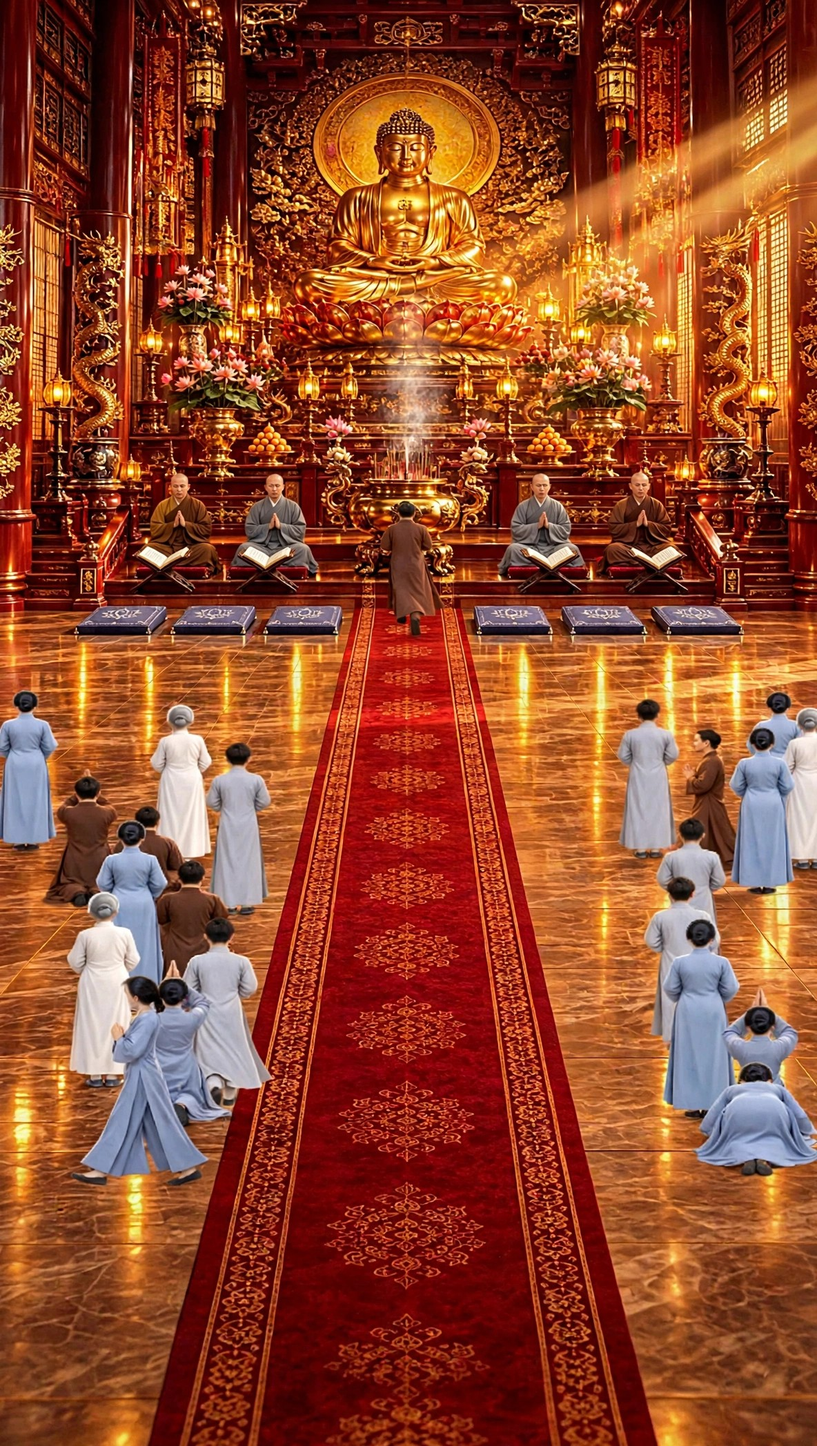
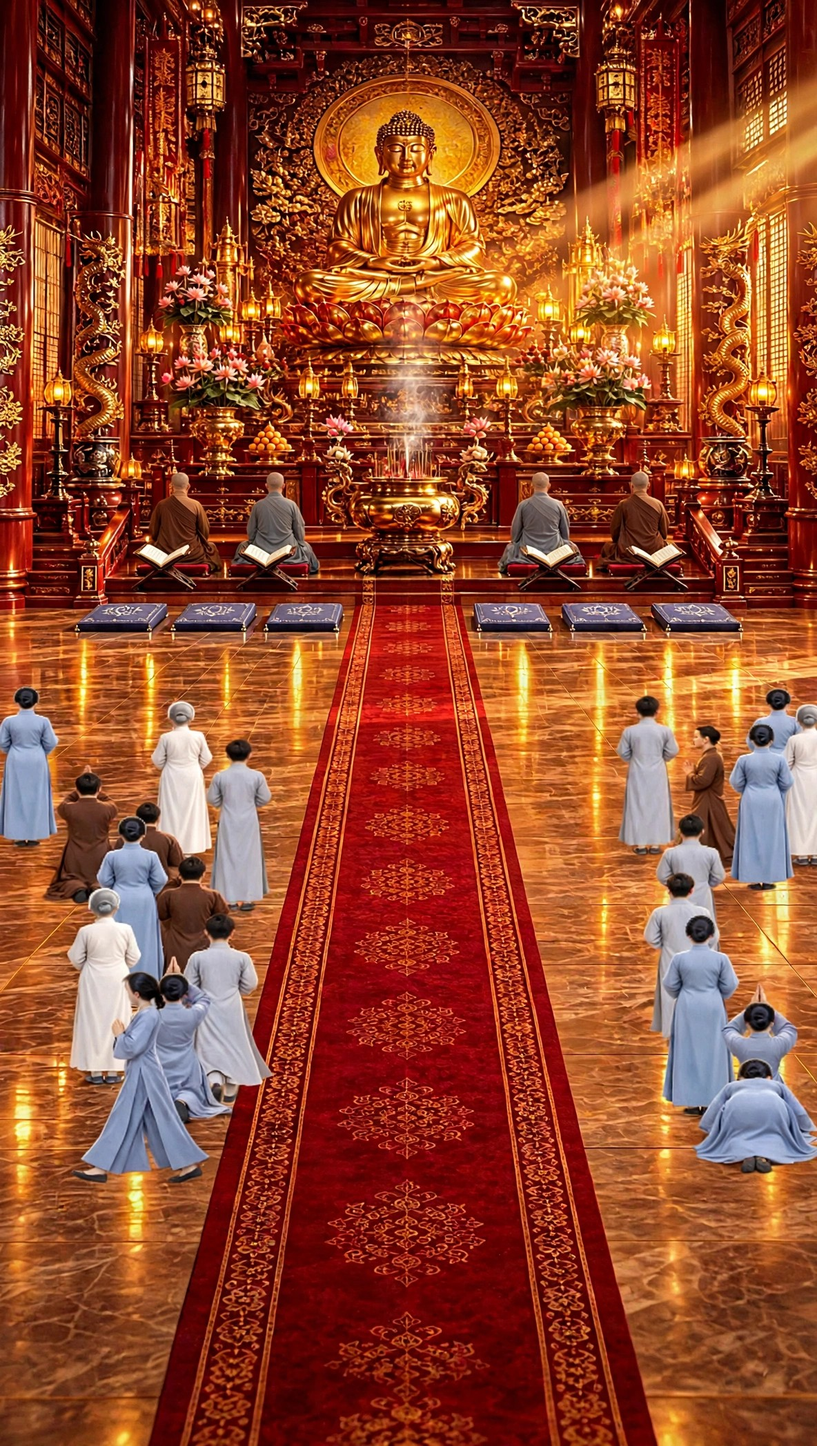
Add files via upload

diff --git a/index.html b/index.html
@@ -43,6 +43,18 @@ button.small{padding:7px 12px;font-size:13px}
 .char.meditating .halo{display:block}
 .bgfig{position:absolute;transform:translate(-50%,-100%);z-index:3;opacity:.85;pointer-events:none}
 .bgfig svg{width:34px;height:48px;display:block}
+.bgmove{position:absolute;transform:translate(-50%,-100%);transform-origin:50% 100%;z-index:4;opacity:.92;pointer-events:none}
+.bgmove svg{width:34px;height:48px;display:block}
+.bgmove.bow{animation:bgBow 6s ease-in-out infinite}
+.bgmove.sway{animation:bgSway 5s ease-in-out infinite}
+.bgmove.walk{animation:bgWalk 9s ease-in-out infinite}
+.bgmove.tray{animation:bgTray 46s ease-in-out infinite}
+.bgmove.tray svg{animation:bgBob 2.4s ease-in-out infinite}
+@keyframes bgBow{0%,58%,100%{transform:translate(-50%,-100%) scaleY(1)}28%{transform:translate(-50%,calc(-100% + 4px)) scaleY(.85)}}
+@keyframes bgSway{0%,100%{transform:translate(-50%,-100%) rotate(-1.6deg)}50%{transform:translate(-50%,-100%) rotate(1.6deg)}}
+@keyframes bgWalk{0%,100%{transform:translate(calc(-50% - 22px),-100%)}50%{transform:translate(calc(-50% + 22px),calc(-100% - 2px))}}
+@keyframes bgBob{0%,100%{transform:translateY(0)}50%{transform:translateY(-2px)}}
+@keyframes bgTray{0%{left:9%}50%{left:87%}100%{left:9%}}
 .char.bowing .fig{transform:rotate(10deg) scaleY(.92)}
 .speech{position:absolute;left:50%;bottom:calc(100% + 2px);transform:translateX(-50%);background:#fff;color:#333;font-size:11px;line-height:1.3;padding:4px 8px;border-radius:10px;white-space:nowrap;box-shadow:0 2px 6px rgba(0,0,0,.35);z-index:8}
 .speech::after{content:"";position:absolute;left:50%;bottom:-4px;transform:translateX(-50%);border:5px solid transparent;border-top-color:#fff;border-bottom:0}
@@ -202,6 +214,7 @@ footer{text-align:center;color:#7a6a52;font-size:13px;padding:26px 10px;line-hei
 <div class="monk" id="monkEl"><div class="mfig">🧘<span class="arm">🥢</span></div><div class="mo">🪵</div><small>Thầy gõ mõ</small></div>
 <div class="monk monk2"><div class="mfig">🧘</div><small>Thầy tọa thiền</small></div>
 <div class="merit" id="meritBoard"><b>BIA CÔNG ĐỨC</b><div id="meritRows">Chưa có công đức — tặng quà trên live TikTok để ghi danh.</div></div>
+<div id="bgMovers" aria-hidden="true"></div>
 <div id="chars"></div>
 <div class="breath" id="breathBubble">Hít vào…</div>
 <div class="giftScroll" id="giftScroll"></div>
@@ -236,7 +249,7 @@ footer{text-align:center;color:#7a6a52;font-size:13px;padding:26px 10px;line-hei
 <p class="muted" id="musicNote" style="margin-top:8px"></p>
 <div class="log" id="activityLog">Chào mừng bạn đến chùa 🙏 Hãy đặt tên ở cổng vào rồi bấm “Vào Chùa Với Tên Này”.</div>
 <div class="guide" style="margin-top:12px">
-<b>Đi dạo:</b> chạm / nhấp vào lối đi giữa điện, hoặc dùng phím mũi tên. <b>Phật tử:</b> khi vào chùa, hình Phật tử nam/nữ của bạn tự hiện và xếp vào chỗ trống hai bên thảm đỏ, mặt hướng về bàn thờ; chạm vào nền để đi lại. <b>Dâng hương:</b> bước tới trước lư hương, nâng hương và khói bay lên bàn thờ. <b>Vái lạy:</b> quỳ xuống, cúi mình lạy ba lạy trước Phật. <b>Tọa thiền:</b> ngồi yên tại chỗ, tỏa hào quang vàng. <b>Thỉnh chuông:</b> tiếng chuông vang cho mọi người đang ở chùa. <b>Gõ mõ:</b> chạm nút Gõ Mõ, thầy sẽ gõ mõ cùng bạn.
+<b>Đi dạo:</b> chạm / nhấp vào lối đi giữa điện, hoặc dùng phím mũi tên. <b>Phật tử:</b> khi vào chùa, hình Phật tử nam/nữ của bạn tự hiện và xếp vào chỗ trống hai bên thảm đỏ, mặt hướng về bàn thờ; chạm vào nền để đi lại. Các Phật tử trong điện luôn chuyển động: người khấn vái, người đi lại, người đứng chắp tay lễ, người bưng mâm lễ. <b>Dâng hương:</b> bước tới trước lư hương, nâng hương và khói bay lên bàn thờ. <b>Vái lạy:</b> quỳ xuống, cúi mình lạy ba lạy trước Phật. <b>Tọa thiền:</b> ngồi yên tại chỗ, tỏa hào quang vàng. <b>Thỉnh chuông:</b> tiếng chuông vang cho mọi người đang ở chùa. <b>Gõ mõ:</b> chạm nút Gõ Mõ, thầy sẽ gõ mõ cùng bạn.
 </div>
 </section>
 
@@ -395,36 +408,72 @@ function autoPlaceMe() {
   emitMove("đang lễ Phật");
 }
 function figureSVG(female, seated) {
-  const robe = female ? "#b07fa8" : "#7d94a8";
-  const trim = female ? "#8e5f86" : "#5f768a";
+  const robe = female ? "#a89bb8" : "#7d94a8";
+  const trim = female ? "#8a7d9e" : "#5f768a";
   const skin = "#f2c89b";
   const hair = "#2b2b2b";
+  const folds = '<path d="M26,40 Q24,58 26,76 M38,40 Q40,58 38,76" stroke="' + trim + '" stroke-width="1" fill="none" opacity="0.3"/>' +
+    '<path d="M32,36 L32,78" stroke="' + trim + '" stroke-width="1" opacity="0.25"/>';
+  const collar = '<path d="M26,32 Q32,29 38,32 L38,37 Q32,34 26,37 Z" fill="' + trim + '"/>';
   const body = seated
-    ? '<path d="M12,78 Q12,58 24,50 L40,50 Q52,58 52,78 Q32,84 12,78 Z" fill="' + robe + '"/>' +
-      '<path d="M22,50 Q32,44 42,50 L42,58 L22,58 Z" fill="' + robe + '"/>' +
-      '<path d="M27,50 L32,57 L37,50" stroke="' + trim + '" stroke-width="2" fill="none" stroke-linecap="round"/>' +
-      '<ellipse cx="32" cy="61" rx="7" ry="3.5" fill="' + skin + '"/>'
-    : '<path d="' + (female ? "M18,38 Q32,32 46,38 L52,78 Q32,84 12,78 Z" : "M20,38 Q32,32 44,38 L48,78 Q32,83 16,78 Z") + '" fill="' + robe + '"/>' +
-      '<path d="M25,36 L32,48 L39,36" stroke="' + trim + '" stroke-width="2" fill="none" stroke-linecap="round"/>' +
-      '<path d="M24,39 L42,74" stroke="#e8c46a" stroke-width="3" opacity="0.75" stroke-linecap="round"/>' +
-      '<path d="M21,43 Q28,53 32,55 Q36,53 43,43" stroke="' + trim + '" stroke-width="6" fill="none" stroke-linecap="round"/>' +
-      '<ellipse cx="32" cy="56" rx="5" ry="4" fill="' + skin + '"/>';
-  const headBase = '<circle cx="32" cy="22" r="11" fill="' + skin + '"/>' +
-    '<circle cx="21" cy="23" r="2.4" fill="' + skin + '"/><circle cx="43" cy="23" r="2.4" fill="' + skin + '"/>';
-  const hairTop = female
-    ? '<path d="M20,24 Q18,8 32,8 Q46,8 44,24 L42,40 Q40,30 38,26 L38,15 Q32,11 26,15 L26,26 Q24,30 22,40 Z" fill="' + hair + '"/>' +
-      '<circle cx="32" cy="6" r="5" fill="' + hair + '"/>' +
-      '<circle cx="32" cy="1" r="2" fill="#e89bb0"/><circle cx="27.5" cy="4" r="2" fill="#e89bb0"/><circle cx="36.5" cy="4" r="2" fill="#e89bb0"/><circle cx="29" cy="9" r="2" fill="#e89bb0"/><circle cx="35" cy="9" r="2" fill="#e89bb0"/><circle cx="32" cy="5" r="1.6" fill="#f5d76e"/>'
-    : '<path d="M20,24 Q19,9 32,9 Q45,9 44,24 Q42,15 32,14 Q22,15 20,24 Z" fill="' + hair + '"/>';
-  const face = '<circle cx="28" cy="21" r="1.3" fill="#3a2a20"/><circle cx="36" cy="21" r="1.3" fill="#3a2a20"/>' +
-    '<path d="M28,27 Q32,30 36,27" stroke="#b0725a" stroke-width="1.4" fill="none" stroke-linecap="round"/>';
+    ? '<path d="M11,79 Q11,58 24,49 L40,49 Q53,58 53,79 Q32,84 11,79 Z" fill="' + robe + '"/>' +
+      '<path d="M24,28 Q32,23 40,28 L43,52 L21,52 Z" fill="' + robe + '"/>' +
+      '<path d="M24,58 Q22,68 24,77 M40,58 Q42,68 40,77" stroke="' + trim + '" stroke-width="1" fill="none" opacity="0.3"/>' + collar
+    : '<path d="' + (female ? "M22,34 Q32,29 42,34 L48,80 Q32,84 16,80 Z" : "M23,34 Q32,29 41,34 L45,80 Q32,84 19,80 Z") + '" fill="' + robe + '"/>' +
+      folds + collar +
+      '<path d="M23,40 Q26,52 31,56 M41,40 Q38,52 33,56" stroke="' + trim + '" stroke-width="5" fill="none" stroke-linecap="round"/>';
+  const headBack = '<circle cx="32" cy="19" r="10" fill="' + skin + '"/>';
+  const hairBack = female
+    ? '<circle cx="32" cy="16" r="10.5" fill="' + hair + '"/>' +
+      '<circle cx="32" cy="30" r="4.5" fill="' + hair + '"/>' +
+      '<circle cx="28" cy="27.5" r="1.7" fill="#e89bb0"/><circle cx="36" cy="27.5" r="1.7" fill="#e89bb0"/><circle cx="32" cy="25.5" r="1.7" fill="#e89bb0"/><circle cx="32" cy="28.5" r="1.4" fill="#f5d76e"/>'
+    : '<circle cx="32" cy="16" r="10.5" fill="' + hair + '"/>';
   return '<svg viewBox="0 0 64 84" xmlns="http://www.w3.org/2000/svg" aria-hidden="true">' +
-    '<ellipse cx="32" cy="80" rx="16" ry="3" fill="rgba(0,0,0,0.25)"/>' + body + headBase + hairTop + face + '</svg>';
+    '<ellipse cx="32" cy="81" rx="15" ry="3" fill="rgba(0,0,0,0.25)"/>' + body + headBack + hairBack + '</svg>';
 }
 function charFigure(u) {
   const female = u.gender === "nu";
   return '<div class="halo"></div><span class="nametag">' + esc((female ? "♀ " : "♂ ") + u.name + " — Phật tử " + (female ? "nữ" : "nam") + (u.action && u.action !== "đang đứng" ? " · " + esc(u.action) : "")) + '</span>' +
     '<div class="fig">' + figureSVG(female, !!u.meditating) + '</div>';
+}
+// Hình Phật tử nhìn từ phía sau (cùng hướng với các Phật tử trong ảnh nền): tóc, lưng áo, không thấy mặt.
+function figureSVGBack(female, withTray) {
+  const svg = figureSVG(female, false);
+  if (!withTray) return svg;
+  const tray = '<ellipse cx="32" cy="54" rx="18" ry="5" fill="#b08d3e"/><ellipse cx="32" cy="52.5" rx="18" ry="5" fill="#d9b45c"/>' +
+    '<circle cx="24" cy="48" r="3" fill="#e07830"/><circle cx="32" cy="46.5" r="3" fill="#c0392b"/><circle cx="40" cy="48" r="3" fill="#7da05a"/>' +
+    '<path d="M28,46 L28,40 M36,46 L36,40" stroke="#8a6a2f" stroke-width="1.6"/>';
+  return svg.replace('</svg>', tray + '</svg>');
+}
+
+// Phật tử chuyển động trong điện: người khấn vái, người đi lại, người đứng chắp tay, người bưng mâm lễ.
+const BG_MOVERS = [
+  { x: 8, y: 56, female: true, act: "bow", dur: 6 },
+  { x: 22, y: 66, female: false, act: "walk", dur: 9 },
+  { x: 7, y: 82, female: false, act: "sway", dur: 5 },
+  { x: 26, y: 88, female: true, act: "bow", dur: 7.5 },
+  { x: 92, y: 56, female: false, act: "sway", dur: 5.5 },
+  { x: 78, y: 66, female: true, act: "walk", dur: 10 },
+  { x: 93, y: 82, female: true, act: "bow", dur: 6.8 },
+  { x: 74, y: 88, female: false, act: "sway", dur: 4.6 },
+];
+function buildBgMovers() {
+  const wrap = $("bgMovers");
+  if (!wrap) return;
+  BG_MOVERS.forEach((f, i) => {
+    const d = document.createElement("div");
+    d.className = "bgmove " + f.act;
+    d.style.left = f.x + "%"; d.style.top = f.y + "%";
+    d.style.animationDuration = f.dur + "s";
+    d.style.animationDelay = (i * 0.9) + "s";
+    d.innerHTML = figureSVGBack(f.female, false);
+    wrap.appendChild(d);
+  });
+  const t = document.createElement("div");
+  t.className = "bgmove tray";
+  t.style.left = "9%"; t.style.top = "93%";
+  t.innerHTML = figureSVGBack(false, true);
+  wrap.appendChild(t);
 }
 function renderChars() {
   const wrap = $("chars");
@@ -1402,6 +1451,7 @@ $("lunarBtn").addEventListener("click", () => {
   $("lunarOut").textContent = "Ngày " + d.getDate() + "/" + (d.getMonth() + 1) + "/" + d.getFullYear() + " dương lịch là " + lunarText(d.getDate(), d.getMonth() + 1, d.getFullYear()) + ".";
 });
 /* ============ Khởi tạo ============ */
+buildBgMovers();
 renderChars();
 spawnPetals();
 $("serverUrl").value = window.location.origin;
